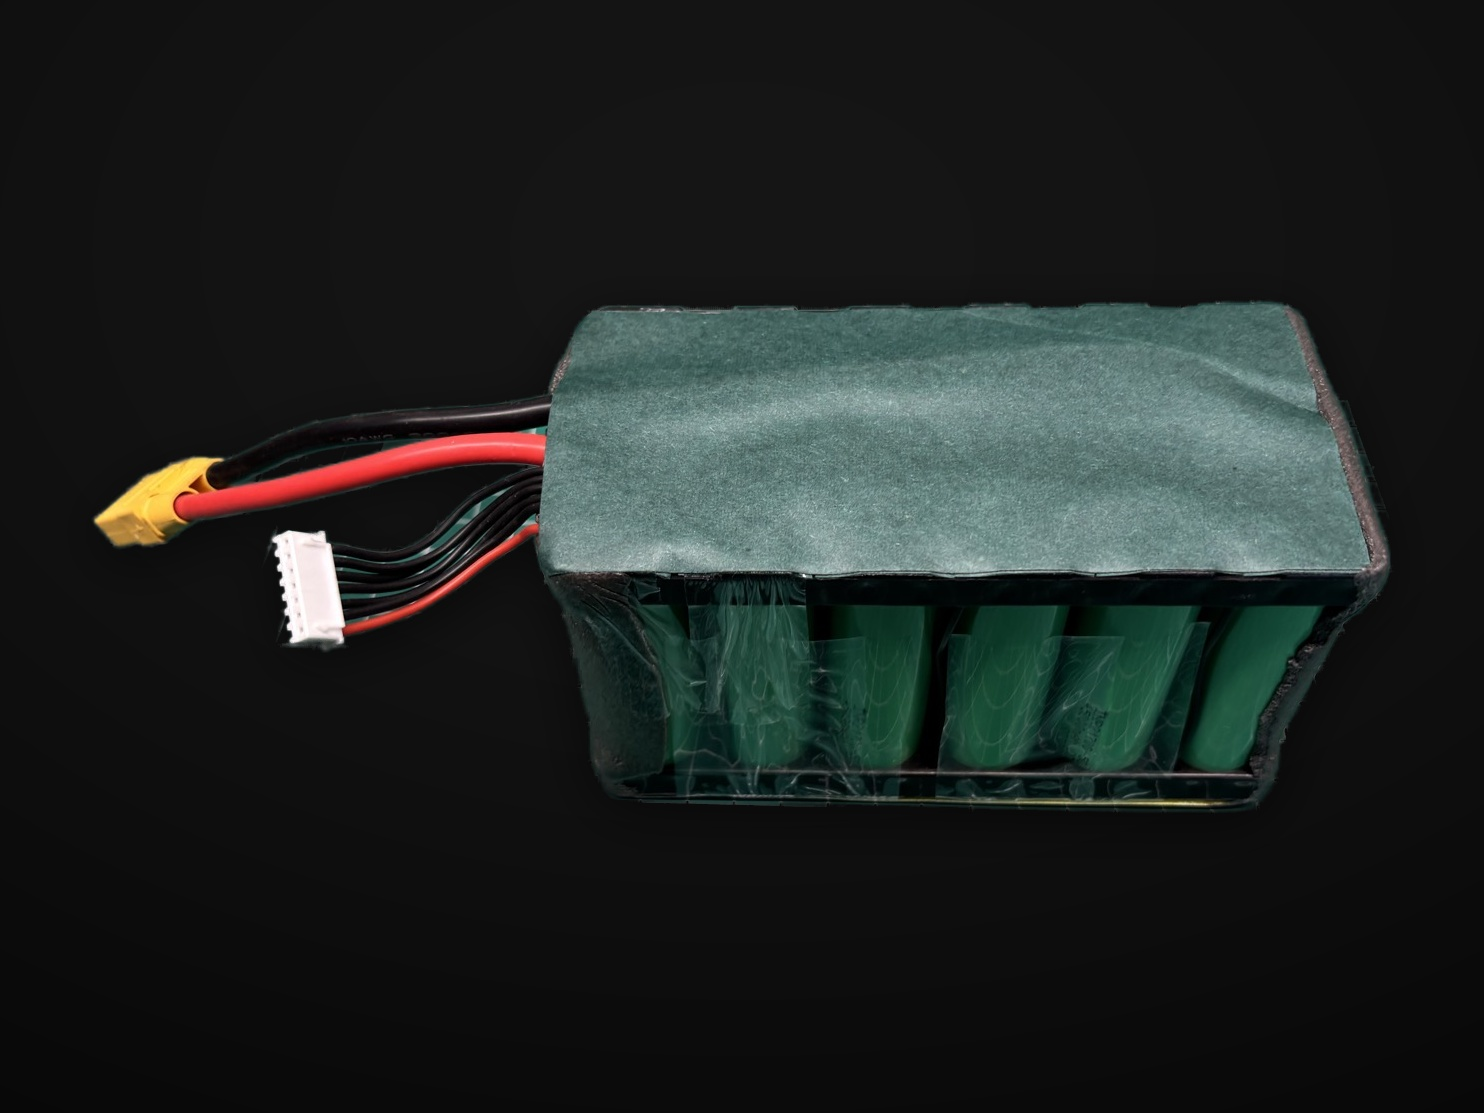
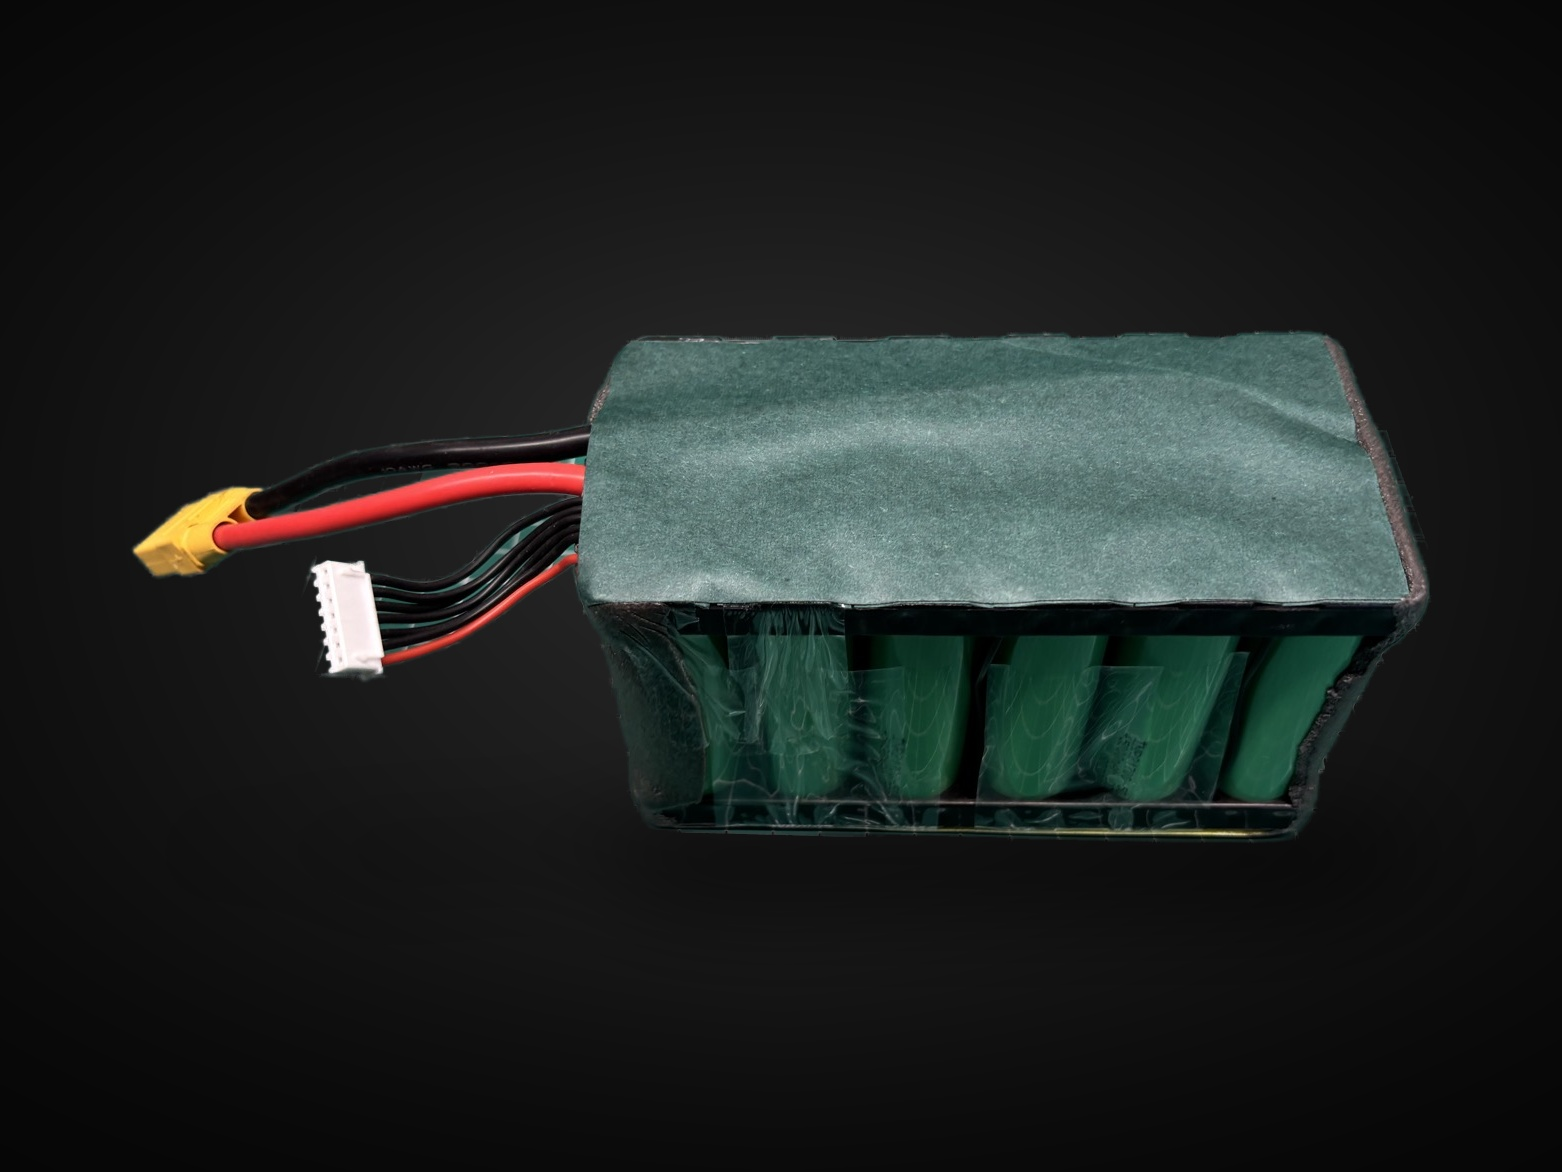
Give the 21700 hero a proper studio backdrop
The flat plate read as a pasted rectangle next to the other images. Replaced
with a lit plate: a soft light pool centred behind the product falling off to
near-black, a faint floor band under it, a corner vignette, and a contact
shadow derived from the product's own silhouette (squashed and blurred so it
reads as cast on a surface rather than as a drop shadow).

The battery is untouched — its pixels are composited last and never modified.
Only hero-21700.jpg changed.

diff --git a/replace_bg.py b/replace_bg.py
@@ -15,7 +15,7 @@ import numpy as np
 from PIL import Image, ImageFilter, ImageOps
 from rembg import remove, new_session
 
-BG_TOP, BG_BOTTOM = (26, 26, 26), (14, 14, 14)   # neutral, matches the site's #111111
+BG_LOW, BG_HIGH = 9.0, 46.0        # plate falls off to near-black, lifts behind the product
 SESSION = new_session("isnet-general-use")        # sharper edges than u2net on hard goods
 
 
@@ -51,17 +51,47 @@ def largest_component(mask, thresh=8):
     return np.where(lab == keep, mask, 0).astype(np.uint8)
 
 
-def studio_bg(size):
+def studio_bg(size, subject):
+    """Lit studio plate: a soft light pool behind the product, falling off to near-black,
+    plus a faint floor band under it. Keyed to where the subject actually sits so the
+    light reads as aimed at the product rather than a flat fill."""
     w, h = size
-    grad = np.linspace(0, 1, h, dtype=np.float32)[:, None]
-    top = np.array(BG_TOP, np.float32)
-    bot = np.array(BG_BOTTOM, np.float32)
-    img = (top * (1 - grad) + bot * grad)[:, None, :].repeat(w, axis=1)
-    # soft vignette so the plate reads as a lit backdrop rather than flat fill
+    sx0, sy0, sx1, sy1 = subject
+    cx, cy = (sx0 + sx1) / 2 / w, (sy0 + sy1) / 2 / h
     yy, xx = np.mgrid[0:h, 0:w].astype(np.float32)
-    r = np.sqrt(((xx / w - .5) * 1.15) ** 2 + ((yy / h - .5) * 1.15) ** 2)
-    img *= (1.0 - 0.55 * np.clip(r, 0, 1) ** 1.7)[:, :, None]
-    return Image.fromarray(np.clip(img, 0, 255).astype(np.uint8), "RGB")
+    nx, ny = xx / w, yy / h
+
+    # main light pool, centred a little above the product
+    r = np.sqrt(((nx - cx) * 1.05) ** 2 + ((ny - (cy - 0.10)) * 1.30) ** 2)
+    pool = np.clip(1.0 - r / 0.92, 0, 1) ** 1.55
+
+    # faint floor band just under the product, suggesting a surface
+    floor_y = sy1 / h
+    band = np.exp(-(((ny - floor_y - 0.05) / 0.20) ** 2)) * np.clip(1.0 - abs(nx - cx) / 0.75, 0, 1)
+
+    L = BG_LOW + (BG_HIGH - BG_LOW) * pool + 7.0 * band
+    # corner vignette keeps the frame from feeling like a lit box
+    v = np.sqrt(((nx - .5) * 1.2) ** 2 + ((ny - .5) * 1.2) ** 2)
+    L *= 1.0 - 0.42 * np.clip(v, 0, 1) ** 2.0
+    img = np.repeat(np.clip(L, 0, 255)[:, :, None], 3, axis=2)
+    return Image.fromarray(img.astype(np.uint8), "RGB")
+
+
+def contact_shadow(alpha_crop, size):
+    """Shadow derived from the product's own silhouette, squashed and blurred so it reads
+    as cast onto the surface rather than as a drop shadow."""
+    w, h = size
+    m = Image.fromarray(alpha_crop, "L")
+    ys = np.nonzero(alpha_crop > 8)[0]
+    if not len(ys):
+        return None
+    bottom = ys.max()
+    squash = 0.20
+    sh = m.resize((w, max(1, int(h * squash))), Image.BILINEAR)
+    plate = Image.new("L", (w, h), 0)
+    plate.paste(sh, (int(w * 0.012), int(bottom - h * squash * 0.42)))
+    plate = plate.filter(ImageFilter.GaussianBlur(max(10, w // 34)))
+    return plate.point(lambda v: int(v * 0.60))
 
 
 def main():
@@ -121,16 +151,18 @@ def main():
     L, T = int(round(cx - bw * fx)), int(round(cy - bh / 2))
     W, H = int(round(bw)), int(round(bh))
 
+    alpha_crop = np.array(Image.fromarray(alpha, "L").crop((L, T, L + W, T + H)))
     fg = Image.fromarray(np.dstack([np.array(src), alpha]), "RGBA").crop((L, T, L + W, T + H))
-    out = studio_bg((W, H))
 
-    # contact shadow, built from the mask so it matches the real silhouette
-    sh = Image.fromarray(alpha, "L").crop((L, T, L + W, T + H))
-    sh = sh.filter(ImageFilter.GaussianBlur(max(6, W // 55)))
-    sh = sh.point(lambda v: int(v * 0.55))
-    out.paste(Image.new("RGB", (W, H), (0, 0, 0)),
-              (0, max(4, H // 90)), sh)
+    sub = np.nonzero(alpha_crop > 8)
+    subject = (sub[1].min(), sub[0].min(), sub[1].max(), sub[0].max()) if len(sub[0]) else (0, 0, W, H)
+    out = studio_bg((W, H), subject)
 
+    sh = contact_shadow(alpha_crop, (W, H))
+    if sh is not None:
+        out.paste(Image.new("RGB", (W, H), (0, 0, 0)), (0, 0), sh)
+
+    # the product's own pixels go down last and are never modified
     out.paste(fg, (0, 0), fg)
     out.save(a.dst, quality=95)
     cov = (alpha > 8).sum() / alpha.size
